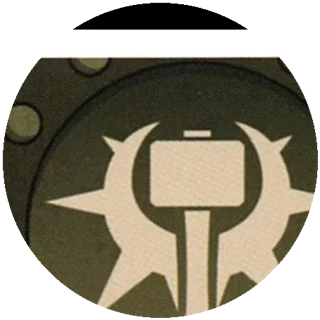
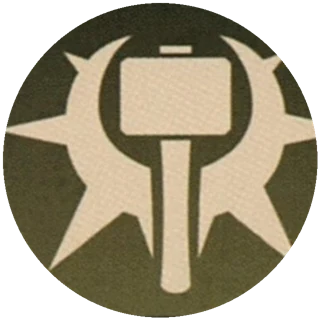
polish(menace): 修正 Agenda 徽记裁切；名称对齐中文卡面
Claude-Session: https://claude.ai/code/session_01D4YgysaSoamUvdbr6ierK3

diff --git a/apps/web/src/ta/text.ts b/apps/web/src/ta/text.ts
@@ -1,11 +1,11 @@
 export type Step={key:string;label:string;kind:"seat"|"card"|"two"|"aside"|"used";other?:boolean};
 const T=(key="target",other=false,label="选择船员"):Step=>({key,label,kind:"seat",other});const D:Step={key:"discard",label:"选择要弃的牌",kind:"card"};
 export const ABILITIES:Record<string,{name:string;cost:string;text:string;steps:Step[]}>={
-bloodwork:{name:"血检",cost:"1氧",text:"选一名船员公开一张手牌",steps:[T()]},first_aid:{name:"急救",cost:"2氧",text:"选一名船员移除一处伤",steps:[T()]},veto:{name:"否决",cost:"弃1",text:"本回合揭示时必须取消一张牌的费用和效果",steps:[D]},laser_pistol:{name:"激光手枪",cost:"2能",text:"选另一名船员受一处伤",steps:[T("target",true)]},delegate:{name:"委派",cost:"",text:"另一名船员必须立即额外执行一次甲板上或甲板下行动",steps:[T("target",true)]},commandeer:{name:"征用",cost:"1能",text:"从任一船员牌库抽一张",steps:[T()]},salvage:{name:"回收",cost:"1氧+弃1",text:"从弃牌堆私下拿至多两张",steps:[D]},crunch:{name:"压榨",cost:"1氧",text:"未受伤船员抽三张并受一处伤",steps:[T()]},strategize:{name:"谋划",cost:"",text:"盖放一张手牌，再打出任意张已盖放牌；一次打出4张以上得2氧",steps:[{key:"aside",label:"选择盖放的牌",kind:"card"},{key:"play",label:"选择要打出的已盖放牌",kind:"aside"}]},moxie:{name:"胆气",cost:"1氧",text:"回合结束时若有人受伤，得3氧",steps:[]},todays_special:{name:"今日特餐",cost:"1氧",text:"把一张手牌塞给别人，然后抽两张",steps:[T("target",true),{key:"card",label:"选择给出的牌",kind:"card"}]},helping_hand:{name:"援手",cost:"",text:"本回合之后可免除一名玩家甲板上行动的费用",steps:[]},mimic:{name:"模仿",cost:"付原费用",text:"复制本回合已执行的甲板上行动",steps:[{key:"ab",label:"选择要复制的能力",kind:"used"}]},deflect:{name:"偏转",cost:"",text:"本回合下次有人受伤时可转给另一人",steps:[]},regenerate:{name:"再生",cost:"1氧",text:"移除自己一处伤",steps:[]},rewind:{name:"回放",cost:"",text:"回合末从已结算牌中私下拿一张",steps:[]},efficiency:{name:"高效",cost:"",text:"本回合打出两张行动牌",steps:[{key:"cards",label:"选择两张牌",kind:"two"}]},formulate:{name:"推演",cost:"1氧",text:"抽三张，再把一张手牌放到牌库底",steps:[]},system_refresh:{name:"系统刷新",cost:"1能",text:"目标把手牌洗回牌库，再抽同样数量+1",steps:[T()]},synchronize:{name:"同步",cost:"1氧",text:"两名船员各抽一张",steps:[T("a"),T("b")]},surveillance:{name:"监控",cost:"1能",text:"私下查看一名玩家场上未结算的牌",steps:[T()]},equip:{name:"装备",cost:"弃1",text:"抽两张牌",steps:[D]},resupply:{name:"补给",cost:"1氧",text:"另一名船员抽两张",steps:[T("target",true)]},rush:{name:"抢修",cost:"",text:"抽一张并立即盖着打出",steps:[]},restructure:{name:"重组",cost:"1能",text:"揭示前查看本回合的牌，可用手牌换一张",steps:[]},damage_control:{name:"损管",cost:"1能",text:"回合末若揭示过气闸/爆炸/恐慌，得3能，无视上限",steps:[]},guard:{name:"护卫",cost:"",text:"取消本回合第一张背刺的效果",steps:[]},lockdown:{name:"封锁",cost:"1氧",text:"本回合剩余时间受伤者不能出牌也不再受伤",steps:[]}};
-export const CARD_TEXT:Record<string,[string,string]>={basic_repair:["基础维修","费用1氧，+1能量"],advanced_repair:["高级维修","费用1氧，+2能量"],raise_morale:["鼓舞士气","+1氧气"],command:["指挥","费用1氧，每名船员抽一张"],replicate:["复制","复制下一张揭示牌的效果"],brawl:["斗殴","每回合首次：任务领袖选一人受伤"],backstab:["背刺","每回合首次：任务领袖受伤"],panic:["恐慌","费用1氧，每名船员随机弃一张"],airlock:["气闸破裂","-1氧气"],explosion:["爆炸","-2能量"],reactor:["反应堆泄漏","本回合出过牌的未受伤船员受伤"]};
+bloodwork:{name:"抽血检验",cost:"1氧",text:"选一名船员公开一张手牌",steps:[T()]},first_aid:{name:"应急治疗",cost:"2氧",text:"选一名船员移除一处伤",steps:[T()]},veto:{name:"否决权",cost:"弃1",text:"本回合揭示时必须取消一张牌的费用和效果",steps:[D]},laser_pistol:{name:"雷射枪",cost:"2能",text:"选另一名船员受一处伤",steps:[T("target",true)]},delegate:{name:"委任工作",cost:"",text:"另一名船员必须立即额外执行一次台面上或甲板下行动",steps:[T("target",true)]},commandeer:{name:"强制征收",cost:"1能",text:"从任一船员牌库抽一张",steps:[T()]},salvage:{name:"打捞作业",cost:"1氧+弃1",text:"从弃牌堆私下拿至多两张",steps:[D]},crunch:{name:"强势命令",cost:"1氧",text:"未受伤船员抽三张并受一处伤",steps:[T()]},strategize:{name:"运筹帷幄",cost:"",text:"盖放一张手牌，再打出任意张已盖放牌；一次打出4张以上得2氧",steps:[{key:"aside",label:"选择盖放的牌",kind:"card"},{key:"play",label:"选择要打出的已盖放牌",kind:"aside"}]},moxie:{name:"胆大作风",cost:"1氧",text:"回合结束时若有人受伤，得3氧",steps:[]},todays_special:{name:"今日特餐",cost:"1氧",text:"把一张手牌塞给别人，然后抽两张",steps:[T("target",true),{key:"card",label:"选择给出的牌",kind:"card"}]},helping_hand:{name:"热情帮手",cost:"",text:"本回合之后可免除一名玩家台面上行动的费用",steps:[]},mimic:{name:"有样学样",cost:"付原费用",text:"复制本回合已执行的台面上行动",steps:[{key:"ab",label:"选择要复制的能力",kind:"used"}]},deflect:{name:"弹射伤害",cost:"",text:"本回合下次有人受伤时可转给另一人",steps:[]},regenerate:{name:"自我修复",cost:"1氧",text:"移除自己一处伤",steps:[]},rewind:{name:"倒带",cost:"",text:"回合末从已结算牌中私下拿一张",steps:[]},efficiency:{name:"请求效率",cost:"",text:"本回合打出两张行动牌",steps:[{key:"cards",label:"选择两张牌",kind:"two"}]},formulate:{name:"拟定计划",cost:"1氧",text:"抽三张，再把一张手牌放到牌库底",steps:[]},system_refresh:{name:"系统重整",cost:"1能",text:"目标把手牌洗回牌库，再抽同样数量+1",steps:[T()]},synchronize:{name:"同步化",cost:"1氧",text:"两名船员各抽一张",steps:[T("a"),T("b")]},surveillance:{name:"安全检查",cost:"1能",text:"私下查看一名玩家场上未结算的牌",steps:[T()]},equip:{name:"装备征收",cost:"弃1",text:"抽两张牌",steps:[D]},resupply:{name:"额外补给",cost:"1氧",text:"另一名船员抽两张",steps:[T("target",true)]},rush:{name:"矫健身手",cost:"",text:"抽一张并立即盖着打出",steps:[]},restructure:{name:"重新构筑",cost:"1能",text:"揭示前查看本回合的牌，可用手牌换一张",steps:[]},damage_control:{name:"损害控管",cost:"1能",text:"回合末若揭示过气闸/爆炸/惊慌，得3能，无视上限",steps:[]},guard:{name:"安全卫士",cost:"",text:"取消本回合第一张背刺的效果",steps:[]},lockdown:{name:"状态锁定",cost:"1氧",text:"本回合剩余时间受伤者不能出牌也不再受伤",steps:[]}};
+export const CARD_TEXT:Record<string,[string,string]>={basic_repair:["基础维修","费用1氧，+1能量"],advanced_repair:["进阶维修","费用1氧，+2能量"],raise_morale:["激励士气","+1氧气"],command:["上级指令","费用1氧，每名船员抽一张"],replicate:["效果复制","复制下一张揭示牌的效果"],brawl:["群众斗殴","每回合首次：任务领袖选一人受伤"],backstab:["背刺","每回合首次：任务领袖受伤"],panic:["惊慌！","费用1氧，每名船员随机弃一张"],airlock:["气闸裂损","-1氧气"],explosion:["反应炉爆炸","-2能量"],reactor:["反应炉外泄","本回合出过牌的未受伤船员受伤"]};
 export const AGENDA_TEXT:Record<string,[string,string]>={contagion:["腐化者（内鬼）","氧气归零或船员全灭即胜。被杀且未被放逐时，可令一人弃光手牌。"],butcher:["屠夫（内鬼）","氧气归零或船员全灭即胜。被杀且未被放逐时，可令一人受伤。"],austere:["克难者（船员）","氧气首次将归零时，可公开并弃一张牌，得1氧1能。个人目标：结束时手牌多于左右相邻存活玩家。"],loyal:["忠诚者（船员）","无特殊能力，无个人目标。"],paragon:["模范生（船员）","他人将受致命伤时可公开并代受。个人目标：没有其他船员被杀。"],reckless:["鲁莽者（船员）","被杀且未被放逐时+2能量。个人目标：牌库不超过11张。"],resolute:["坚定者（船员）","首次将受致命伤时可公开并取消。个人目标：以公开状态获胜。"],saint:["圣人（船员）","受伤时公开并失去2氧。个人目标：氧气剩4格以上。"],vengeant:["复仇者（船员）","被杀时可令另一人受伤。个人目标：至少一名其他玩家被杀。"],coward:["胆小鬼（中立）","内鬼公开后转投内鬼目标，内鬼全死后变回。存活即胜。个人目标：未被放逐。"]};
 export const CHAR_NAME:Record<string,string>={rotti:"罗提",malumil:"马鲁米尔",andrew:"安德鲁",shnn:"舷",dekka:"戴卡",martella:"玛提拉",tove:"托福",aerril:"艾瑞尔",moe:"莫莫",beepo:"哔啵",sigmund:"席格蒙",rhea:"莉亚",cecilia:"赛希亚",prillig:"切夫",azi:"阿琪",iza:"以萨",ruggine:"鲁吉",gurg:"哥吉"};
-export const WOUND_TEXT:Record<string,string>={flesh:"皮肉伤：无额外效果",brain_damage:"脑部受损：必须重复上一名玩家的行动类型",broken_limbs:"断肢：除非本轮已有他人出牌，否则不能打出行动牌",concussion:"脑震荡：手牌上限减2",frenzied:"狂乱：把手牌洗到牌库顶；要抽牌时改为打出牌库顶的牌",punctured_lung:"肺部穿刺：出牌时额外弃掉牌库顶2张",pulverized:"瘫痪：受伤时弃掉牌库顶5张",radiation_burns:"辐射灼伤：担任任务领袖时，随机弃掉1张已出的牌",severed:"骨折：选择1个舱面上行动，持有期间不能使用",crushed_windpipe:"气管受损：持有期间不能以船员身份说话",mental_breakdown:"精神崩溃：其他玩家的牌库顶牌洗入你的牌库"};
+export const WOUND_TEXT:Record<string,string>={flesh:"皮肉伤：无额外效果",brain_damage:"脑部受损：必须重复上一名玩家的行动类型",broken_limbs:"断肢：除非本轮已有他人出牌，否则不能打出行动牌",concussion:"脑震荡：手牌上限减2",frenzied:"狂乱：把手牌洗到牌库顶；要抽牌时改为打出牌库顶的牌",punctured_lung:"肺部穿刺：出牌时额外弃掉牌库顶2张",pulverized:"瘫痪：受伤时弃掉牌库顶5张",radiation_burns:"辐射灼伤：担任任务领袖时，随机弃掉1张已出的牌",severed:"骨折：选择1个台面上行动，持有期间不能使用",crushed_windpipe:"气管受损：持有期间不能以船员身份说话",mental_breakdown:"精神崩溃：其他玩家的牌库顶牌洗入你的牌库"};
 export const QUESTION:Record<string,string>={discard_down:"手牌超限，弃一张",deflect:"有人将受伤，要转移吗？",paragon:"要公开模范生身份代受致命伤吗？",resolute:"要公开坚定者身份取消致命伤吗？",austere:"氧气将归零！公开克难者并弃一张牌？",severed:"选择被断掉的能力",bloodwork:"选择公开的手牌",veto:"使用否决？",brawl:"斗殴：选择受伤的船员",restructure:"重组",salvage:"从弃牌堆取牌",formulate:"选一张放到牌库底",assist:"要用援手免除费用吗？",rewind:"选一张拿回手牌",contagion:"选择弃光手牌的玩家",butcher:"选择受伤的玩家",vengeant:"选择受伤的玩家"};
 
 const NAMES:Record<string,string>={...Object.fromEntries(Object.entries(ABILITIES).map(([k,v])=>[k,v.name])),...Object.fromEntries(Object.entries(CARD_TEXT).map(([k,v])=>[k,v[0]])),...Object.fromEntries(Object.entries(AGENDA_TEXT).map(([k,v])=>[k,v[0]])),...Object.fromEntries(Object.entries(WOUND_TEXT).map(([k,v])=>[k,v.split("：")[0]]))};

diff --git a/apps/web/src/ta/Menace.tsx b/apps/web/src/ta/Menace.tsx
@@ -32,7 +32,7 @@ function Room({ code }: { code: string }) {
 const TONE: Record<string, string> = { advanced_repair: "#f0a020", airlock: "#2f8fe0", backstab: "#d9352c", basic_repair: "#f0b81e", brawl: "#f07020", command: "#8a55c8", explosion: "#f05a20", panic: "#ee3f92", raise_morale: "#2f9fe0", reactor: "#74c52c", replicate: "#2fc0a0" };
 function GameCard({ type }: { type: string }) {
   const [name, text] = CARD_TEXT[type];
-  return <div className="ta-gc" style={{ "--k": TONE[type] } as any}><div className="h"><small>舱面下行动</small><b>{name}</b></div><div className="m"><img src={img("m_" + type)} alt={name} /></div><div className="t"><span>{text}</span></div><div className="s" /></div>;
+  return <div className="ta-gc" style={{ "--k": TONE[type] } as any}><div className="h"><small>台面下行动</small><b>{name}</b></div><div className="m"><img src={img("m_" + type)} alt={name} /></div><div className="t"><span>{text}</span></div><div className="s" /></div>;
 }
 function InfoCard({ tone, kind, name, pic, text, round }: { tone: string; kind: string; name: string; pic: string; text: string; round?: boolean }) {
   return <div className={"ta-gc" + (round ? "" : " tall")} style={{ "--k": tone } as any}><div className="h"><small>{kind}</small><b>{name}</b></div><div className="m">{pic ? <img src={pic} alt={name} /> : null}</div><div className="t"><span>{text}</span></div><div className="s" /></div>;
